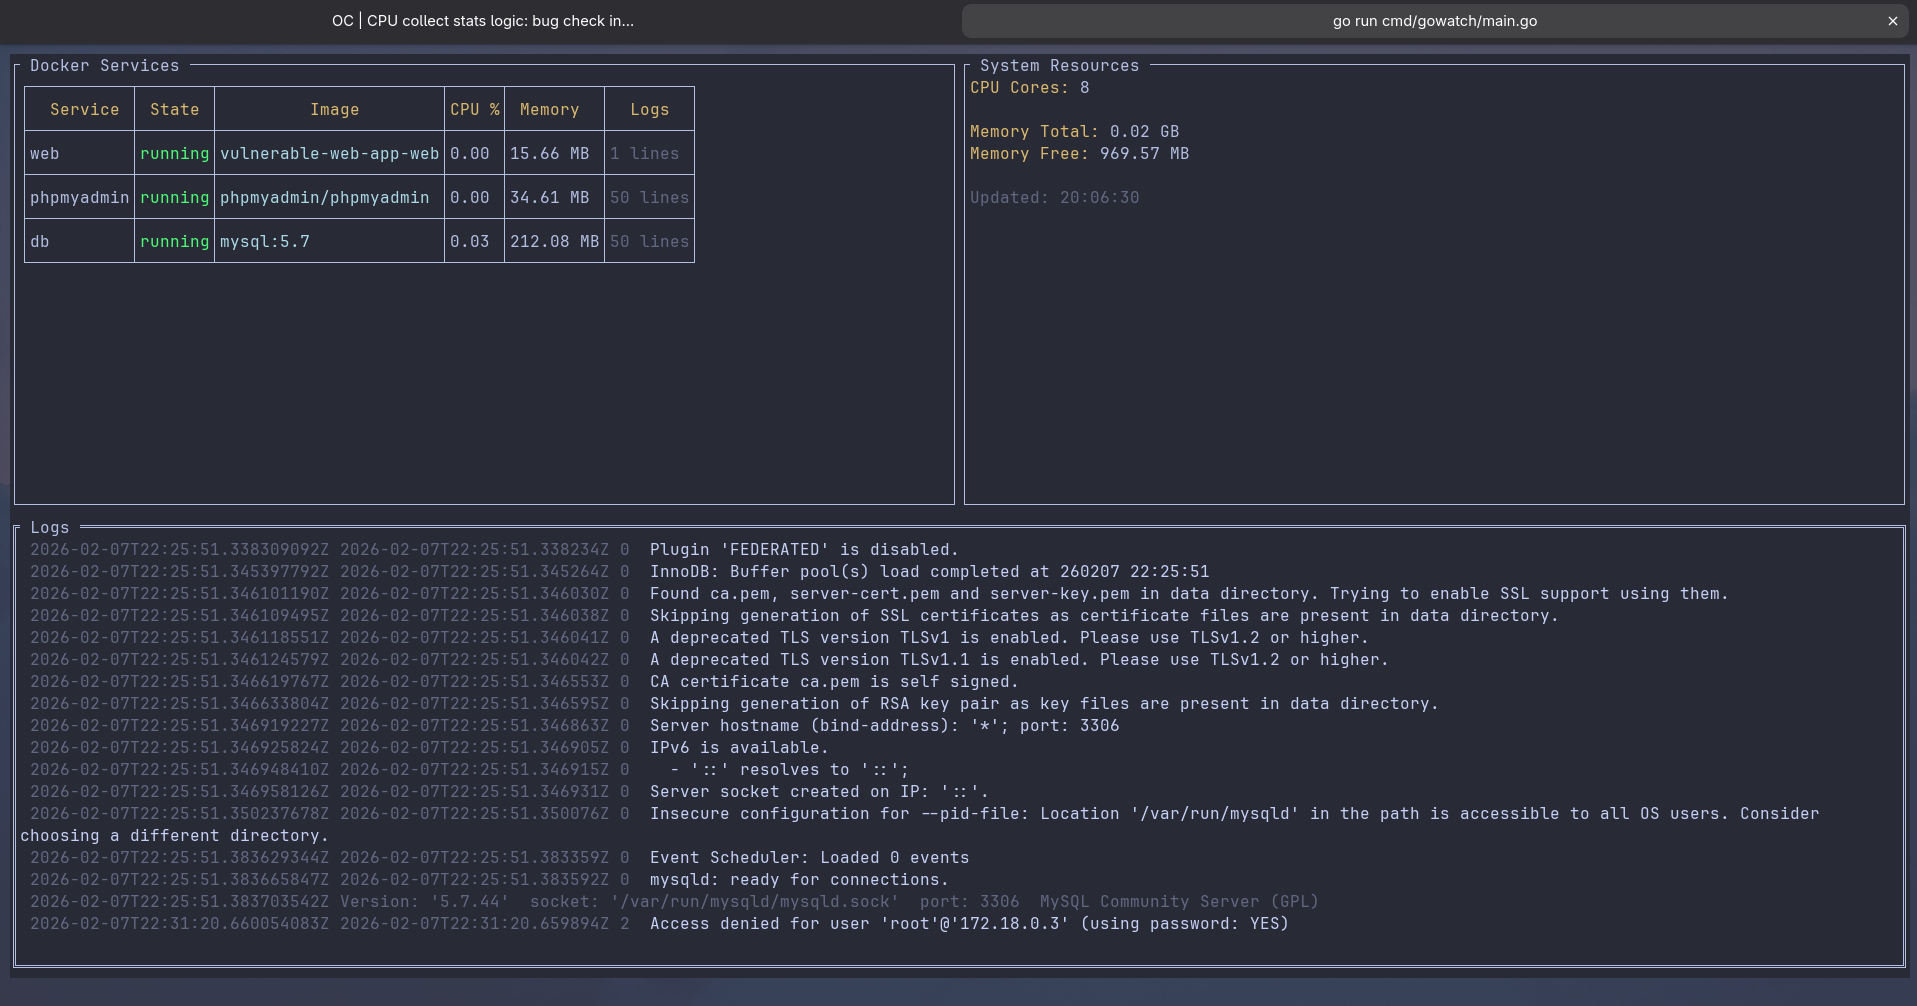
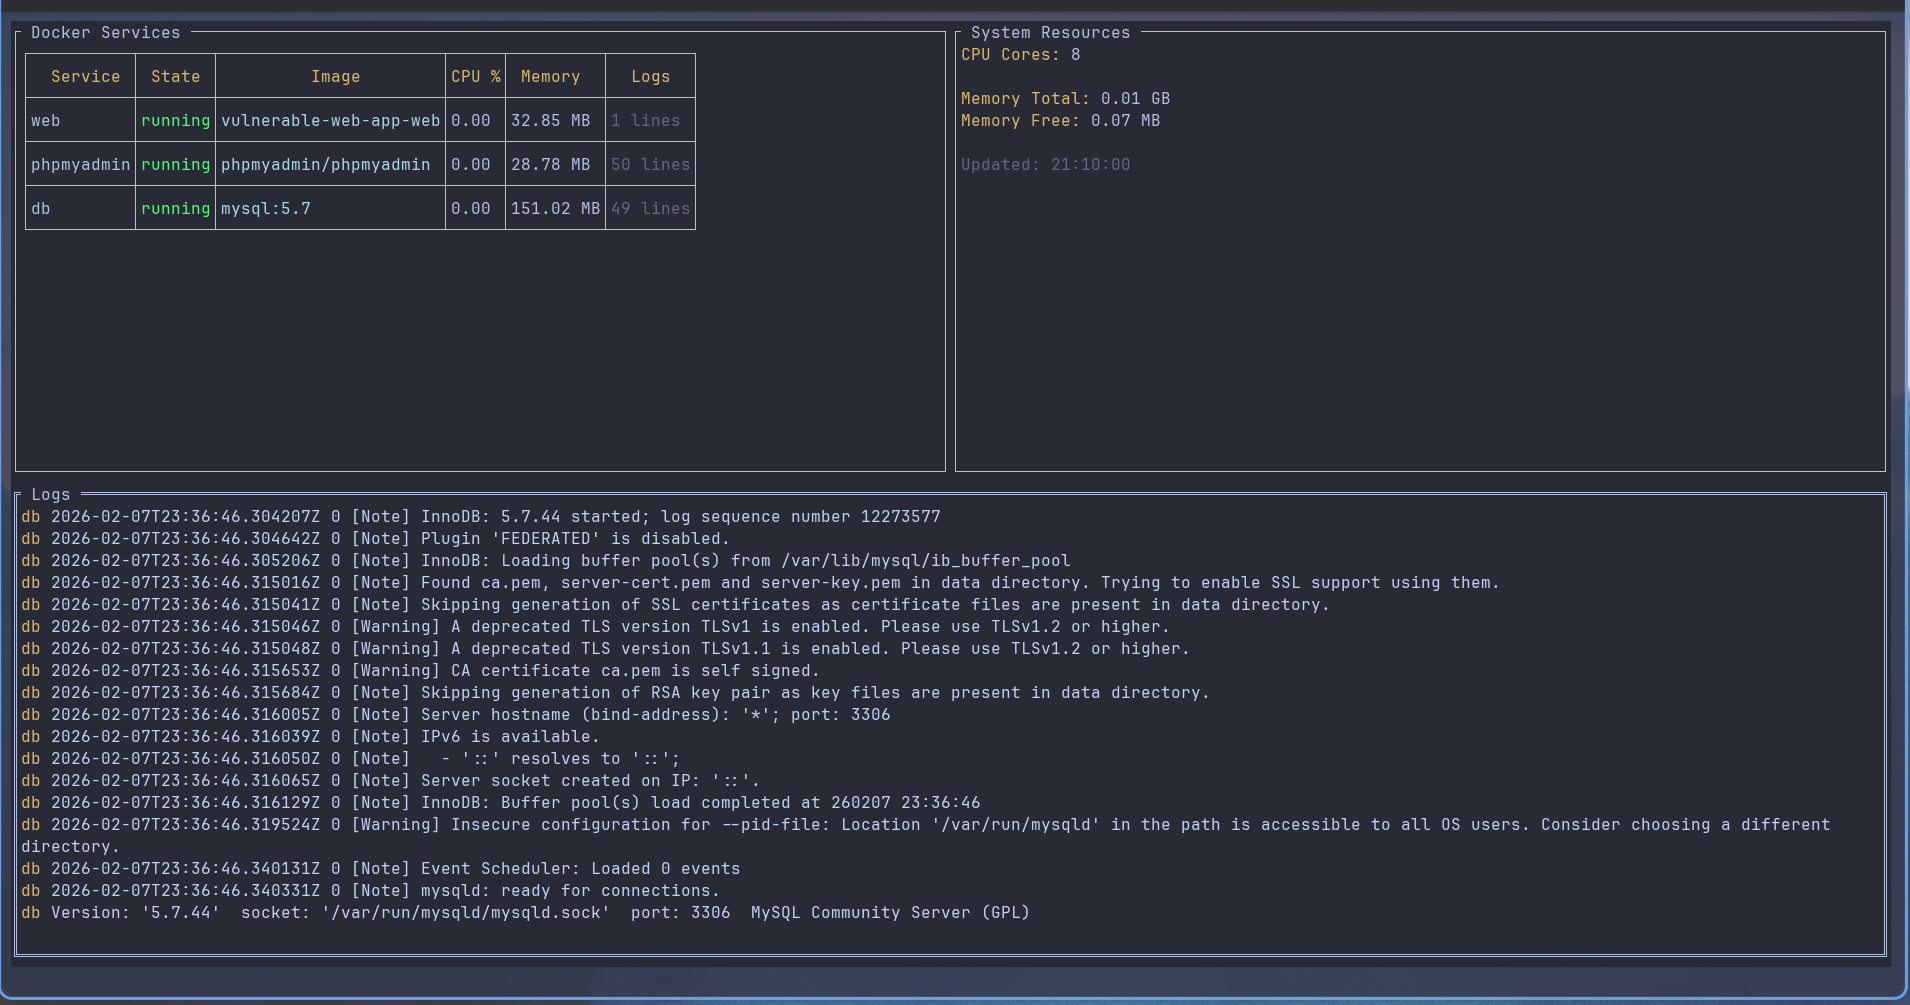
fix: correctly logs exhibition

Changed region(s): [[0.0, 0.0, 1.0, 1.0]]

diff --git a/internal/docker/parser.go b/internal/docker/parser.go
@@ -34,45 +34,32 @@ func ParseStats(statsJSON container.StatsResponse) (cpu float64, mem uint64) {
 
 func ParseLogs(rawLogs io.ReadCloser) []string {
 	var logs []string
-	buf := make([]byte, 4096)
+	header := make([]byte, 8)
 
 	for {
-		n, err := rawLogs.Read(buf)
-		if err != nil && err != io.EOF {
-			return []string{"Error reading logs"}
-		}
-		if n == 0 {
+		// Read the 8-byte Docker multiplexed stream header
+		// Format: [stream_type (1 byte)][padding (3 bytes)][size (4 bytes big-endian)]
+		_, err := io.ReadFull(rawLogs, header)
+		if err != nil {
 			break
 		}
 
-		// Handle Docker multiplexed log format
-		// Format: [HEADER][PAYLOAD][HEADER][PAYLOAD]...
-		pos := 0
-		for pos < n {
-			if pos+8 > n {
-				break
-			}
+		// Parse payload size from bytes 4-7 (big-endian uint32)
+		size := int(header[4])<<24 | int(header[5])<<16 | int(header[6])<<8 | int(header[7])
+		if size <= 0 {
+			continue
+		}
 
-			// Header: stream type (1 byte) + size (4 bytes big endian) + padding (3 bytes)
-			_ = buf[pos] // stream type (1=stdout, 2=stderr)
-			// Parse size from next 4 bytes (big endian)
-			size := int(buf[pos+4])<<24 | int(buf[pos+5])<<16 | int(buf[pos+6])<<8 | int(buf[pos+7])
+		// Read the exact payload bytes for this frame
+		payload := make([]byte, size)
+		_, err = io.ReadFull(rawLogs, payload)
+		if err != nil {
+			break
+		}
 
-			pos += 8
-
-			if pos+size > n {
-				break
-			}
-
-			if size > 0 {
-				logLine := string(buf[pos : pos+size])
-				logLine = strings.TrimSpace(logLine)
-				if logLine != "" {
-					logs = append(logs, logLine)
-				}
-			}
-
-			pos += size
+		logLine := strings.TrimSpace(string(payload))
+		if logLine != "" {
+			logs = append(logs, logLine)
 		}
 	}
 

diff --git a/internal/ui/dashboard.go b/internal/ui/dashboard.go
@@ -168,7 +168,7 @@ func (d *Dashboard) updateLogsView(containers docker.Containers) {
 	d.logsView.Clear()
 	for _, fl := range containers.FlatLogs {
 		color := d.getServiceColor(fl.Service, containers)
-		fmt.Fprintf(d.logsView, "[%s][%s][-] [gray]%s[-]\n", color, fl.Service, fl.Line)
+		fmt.Fprintf(d.logsView, "[yellow]%s[-] [%s]%s[-]\n", fl.Service, color, tview.Escape(fl.Line))
 	}
 
 	if d.firstRender {

diff --git a/internal/docker/collector.go b/internal/docker/collector.go
@@ -66,7 +66,6 @@ func getContainerLogs(ctx context.Context, apiClient *client.Client, containerID
 		ShowStdout: true,
 		ShowStderr: true,
 		Tail:       "50",
-		Timestamps: true,
 	})
 	if err != nil {
 		return []string{"Error fetching logs"}
